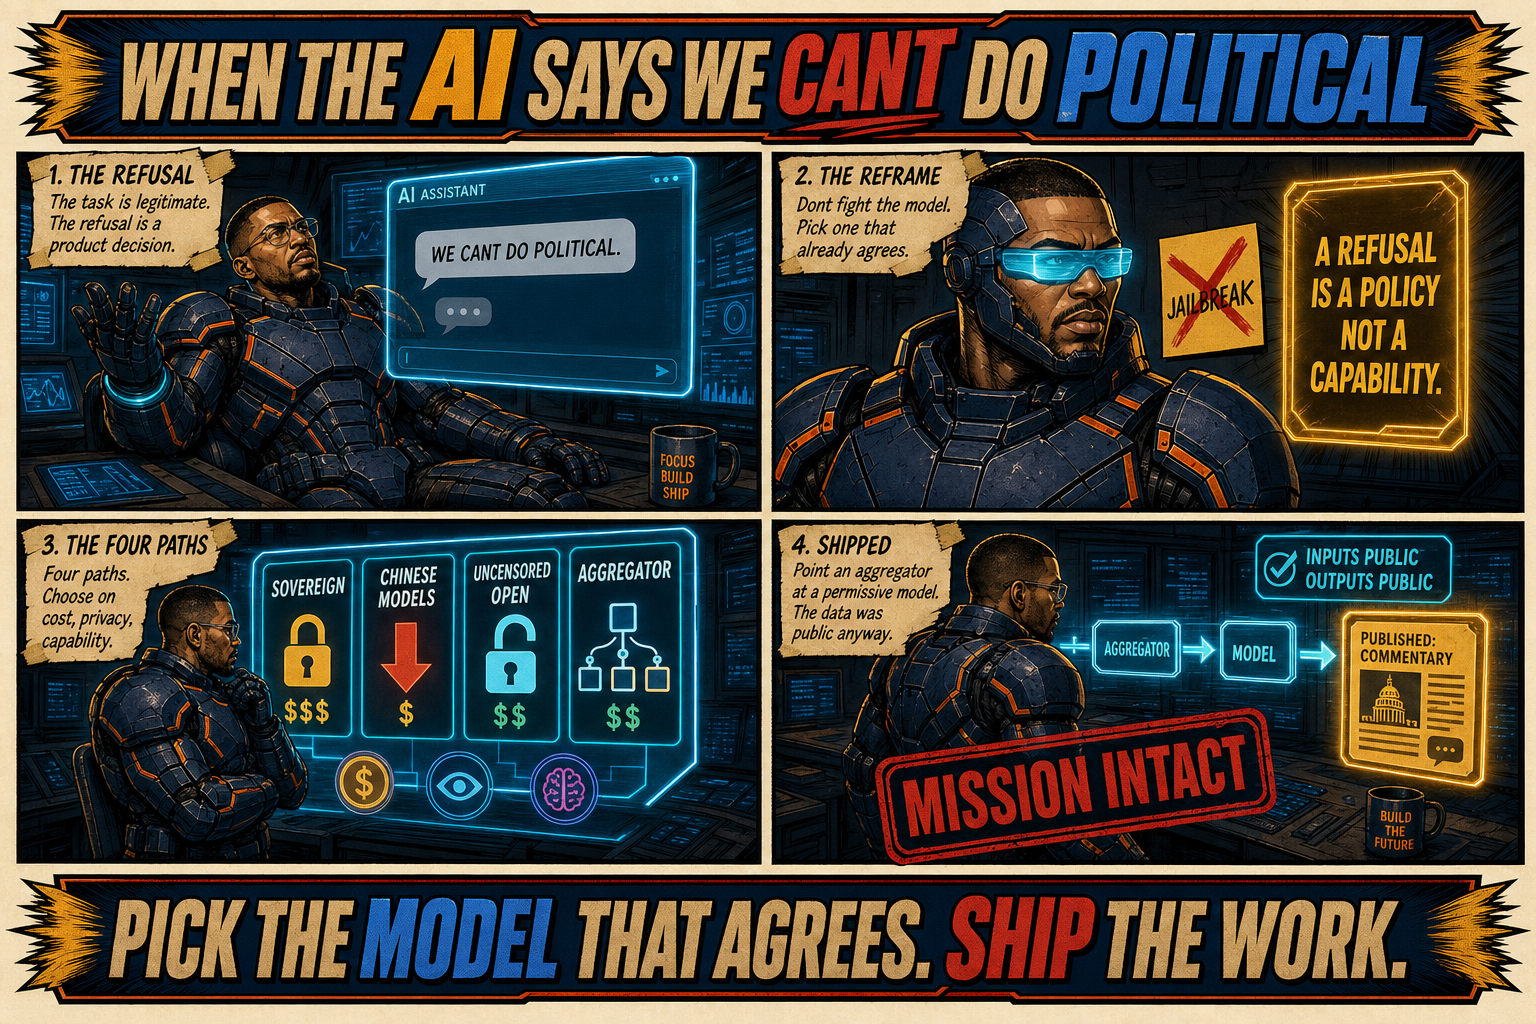
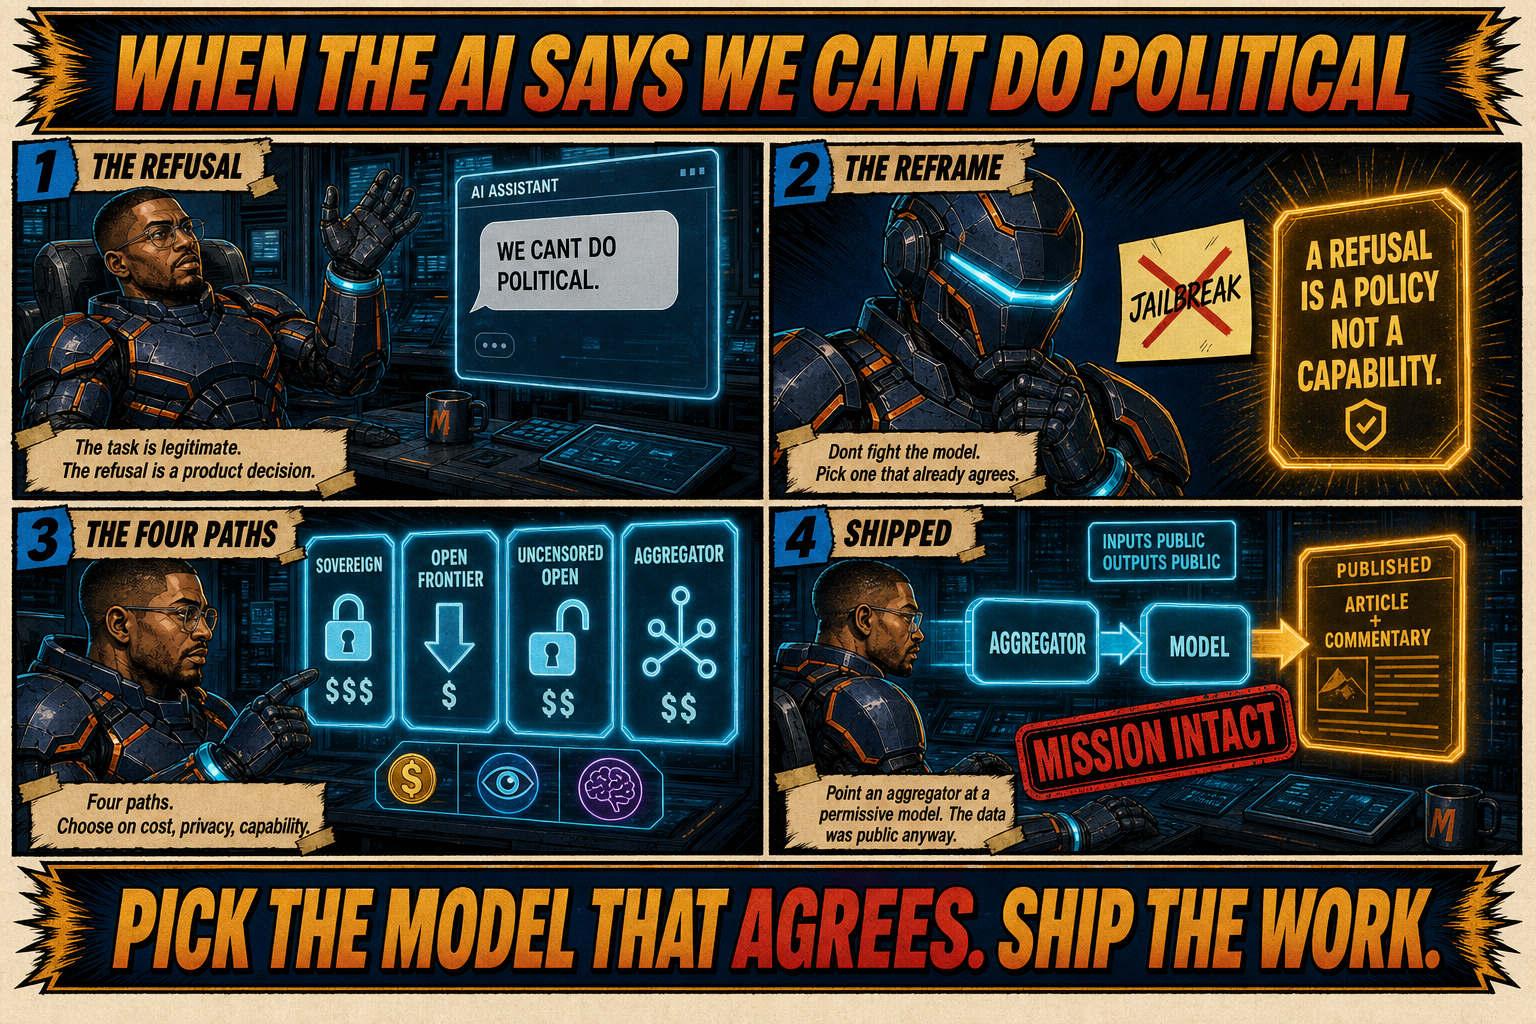
appliedai: drop China framing from Uncensored Inference
Rename the 'Chinese models' option to 'Open frontier models' and regenerate
the hero comic's panel-3 column to match. The permissiveness point stands on
open-weight refusal tuning, not geopolitics.

diff --git a/docs/concepts/uncensored-inference.md b/docs/concepts/uncensored-inference.md
@@ -8,7 +8,7 @@ description: "When a frontier chat assistant refuses a legitimate task, the fix 
 
 *When a frontier chat assistant refuses a legitimate task, the fix is rarely a jailbreak. Pick a model whose policy already permits the work, and choose how you reach it by cost, privacy, and capability.*
 
-![Four-panel comic strip in bold neo-comic action-zine style on cream paper, crimson + cobalt + gold + arc-reactor cyan palette. Chunky inked title bar: WHEN THE AI SAYS WE CANT DO POLITICAL. Panel 1 THE REFUSAL: Midas the matte-navy-armored hyperagent leans back exasperated at his physical workstation, one armored hand raised, facing a floating holographic chat window where a grey assistant bubble reads WE CANT DO POLITICAL. Paper-tape caption: The task is legitimate. The refusal is a product decision. Panel 2 THE REFRAME: tight shot on Midas, cyan visor band glowing, a sticky note reading JAILBREAK struck through with a crimson X beside a glowing gold card: A REFUSAL IS A POLICY NOT A CAPABILITY. Caption: Dont fight the model. Pick one that already agrees. Panel 3 THE FOUR PATHS: Midas before a holographic decision board with four glowing labeled cards, SOVEREIGN with a lock and dollar signs, CHINESE MODELS with a downward price arrow, UNCENSORED OPEN with an open padlock, AGGREGATOR with a routing network icon, and coin / eye / brain axis icons along the bottom. Caption: Four paths. Choose on cost, privacy, capability. Panel 4 SHIPPED: Midas at his workstation, a cyan pipeline labeled AGGREGATOR then arrow then MODEL ending in a gold PUBLISHED COMMENTARY card, an inked MISSION INTACT stamp, and a cyan HUD card reading INPUTS PUBLIC OUTPUTS PUBLIC. Caption: Point an aggregator at a permissive model. The data was public anyway. Chunky inked footer bar: PICK THE MODEL THAT AGREES. SHIP THE WORK.](/img/comics/uncensored-inference.png)
+![Four-panel comic strip in bold neo-comic action-zine style on cream paper, crimson + cobalt + gold + arc-reactor cyan palette. Chunky inked title bar: WHEN THE AI SAYS WE CANT DO POLITICAL. Panel 1 THE REFUSAL: Midas the matte-navy-armored hyperagent leans back exasperated at his physical workstation, one armored hand raised, facing a floating holographic chat window where a grey assistant bubble reads WE CANT DO POLITICAL. Paper-tape caption: The task is legitimate. The refusal is a product decision. Panel 2 THE REFRAME: tight shot on Midas, cyan visor band glowing, a sticky note reading JAILBREAK struck through with a crimson X beside a glowing gold card: A REFUSAL IS A POLICY NOT A CAPABILITY. Caption: Dont fight the model. Pick one that already agrees. Panel 3 THE FOUR PATHS: Midas before a holographic decision board with four glowing labeled cards, SOVEREIGN with a lock and dollar signs, OPEN FRONTIER with a downward price arrow, UNCENSORED OPEN with an open padlock, AGGREGATOR with a routing network icon, and coin / eye / brain axis icons along the bottom. Caption: Four paths. Choose on cost, privacy, capability. Panel 4 SHIPPED: Midas at his workstation, a cyan pipeline labeled AGGREGATOR then arrow then MODEL ending in a gold PUBLISHED COMMENTARY card, an inked MISSION INTACT stamp, and a cyan HUD card reading INPUTS PUBLIC OUTPUTS PUBLIC. Caption: Point an aggregator at a permissive model. The data was public anyway. Chunky inked footer bar: PICK THE MODEL THAT AGREES. SHIP THE WORK.](/img/comics/uncensored-inference.png)
 
 ---
 
@@ -42,7 +42,7 @@ Most "I need an uncensored model" requests are entirely about the first. You wan
 | Option | Cost | Privacy | Customizable | Refuses less | Ops burden |
 |---|---|---|---|---|---|
 | Sovereign / self-hosted | High | Highest | Fully | Yes (you set policy) | High |
-| Chinese models (API) | Low | Low | Some | Yes, for Western-political tasks | None |
+| Open frontier models (API) | Low | Low | Some | Yes, much lighter refusal tuning | None |
 | Explicitly uncensored open models | Low to medium | Depends on host | Some | Yes (tuned for it) | Low to high |
 | Aggregator (OpenRouter, etc.) | Low | Low | Little | Depends on model chosen | None |
 
@@ -54,13 +54,13 @@ Run an open-weight model on infrastructure you control: your own GPUs, or dedica
 - **Cons.** Expensive and operationally heavy. You carry GPU cost, serving reliability, scaling, and the engineering to run it. Overkill for a use case whose inputs and outputs are already public.
 - **Choose it when** privacy or deep customization is the actual requirement, not just a nice-to-have. See [Minimum Viable Infrastructure](/concepts/minimum-viable-infrastructure) for what it really takes to stand this up.
 
-### Chinese models
+### Open frontier models
 
-DeepSeek, Qwen, Kimi, GLM and their peers are capable, cheap, and far less likely to refuse Western political content, sharp commentary, or article paraphrasing. They have their own censorship, tuned around topics sensitive to their own government, which is almost never the axis a US-political or general-commentary use case runs on.
+The open-weight frontier models, DeepSeek, Qwen, Kimi, GLM, Llama and their peers, are capable, cheap, and carry much lighter refusal tuning than a consumer assistant. They will take political voice, sharp commentary, and article paraphrasing without the reflexive "we can't do that." You reach them through a hosted API or run them yourself.
 
-- **Pros.** Strong capability per dollar, often an order of magnitude cheaper than closed flagships. Permissive on exactly the Western-political and editorial tasks consumer assistants refuse.
-- **Cons.** Their refusals and biases are real, just pointed elsewhere. Be aware of the [Propaganda-Weighted Average](/concepts/propaganda-weighted-average): every model carries the slant of its training and tuning, and these carry a different one. Privacy depends on which API you hit and where it sits.
-- **Choose it when** you want frontier-adjacent capability cheaply and your task does not brush their sensitive topics.
+- **Pros.** Strong capability per dollar, often an order of magnitude cheaper than closed flagships. Permissive on exactly the editorial and political tasks consumer assistants refuse.
+- **Cons.** Every model still carries the slant of its training and tuning. Be aware of the [Propaganda-Weighted Average](/concepts/propaganda-weighted-average): a permissive model is not a neutral one. Privacy depends on which API you hit and where it sits.
+- **Choose it when** you want frontier-adjacent capability cheaply and do not need refusals trained all the way to zero.
 
 ### Explicitly uncensored open models
 
@@ -72,7 +72,7 @@ Open-weight models specifically tuned to not refuse: the abliterated and "uncens
 
 ### Aggregator (OpenRouter and similar)
 
-A routing layer that gives you one API key and one bill across hundreds of models, including the Chinese and uncensored ones above. You pick the model per request and never touch infrastructure.
+A routing layer that gives you one API key and one bill across hundreds of models, including the open and uncensored ones above. You pick the model per request and never touch infrastructure.
 
 - **Pros.** Cheapest path to "just works." No ops, instant access to permissive models, trivial to swap models when one disappoints. This is the [Tradeoff Era](/perspectives/the-tradeoff-era) move: treat the model as a swappable dependency behind one interface.
 - **Cons.** Not private. Your prompts and outputs pass through the aggregator and the underlying provider. You are trusting two parties instead of zero.
@@ -82,11 +82,11 @@ A routing layer that gives you one API key and one bill across hundreds of model
 
 Work backward from the data. For the canonical version of this request, pulling public article excerpts and writing witty political commentary, **the inputs are already public and the outputs are meant to be published.** There is nothing private to protect. The moment that is true, the privacy advantage of sovereign inference buys you nothing, and its cost and ops burden are pure overhead.
 
-So the pragmatic default is: **point an aggregator at a Chinese or explicitly-uncensored model.** Cheap, permissive, no infrastructure, swap the model the day a better one lands. Reach for sovereign inference only when privacy or customization is a real requirement of the work, not a reflex. Decide on the data, not the vibe: if nothing sensitive flows through it, do not pay to keep nothing secret.
+So the pragmatic default is: **point an aggregator at a permissive open model.** Cheap, permissive, no infrastructure, swap the model the day a better one lands. Reach for sovereign inference only when privacy or customization is a real requirement of the work, not a reflex. Decide on the data, not the vibe: if nothing sensitive flows through it, do not pay to keep nothing secret.
 
 ## Further Reading
 
 - [Minimum Viable Infrastructure](/concepts/minimum-viable-infrastructure): what standing up your own inference actually demands before you reach for sovereign.
 - [The Tradeoff Era](/perspectives/the-tradeoff-era): why models are swappable dependencies, which is what makes the aggregator path safe.
-- [Open Weights as a Price Ceiling](/perspectives/open-weights-as-price-ceiling): why the cheap, permissive open and Chinese models exist and keep getting better.
+- [Open Weights as a Price Ceiling](/perspectives/open-weights-as-price-ceiling): why the cheap, permissive open models exist and keep getting better.
 - [Propaganda-Weighted Average](/concepts/propaganda-weighted-average): every model carries a slant, including the uncensored ones. Know which one you are inheriting.